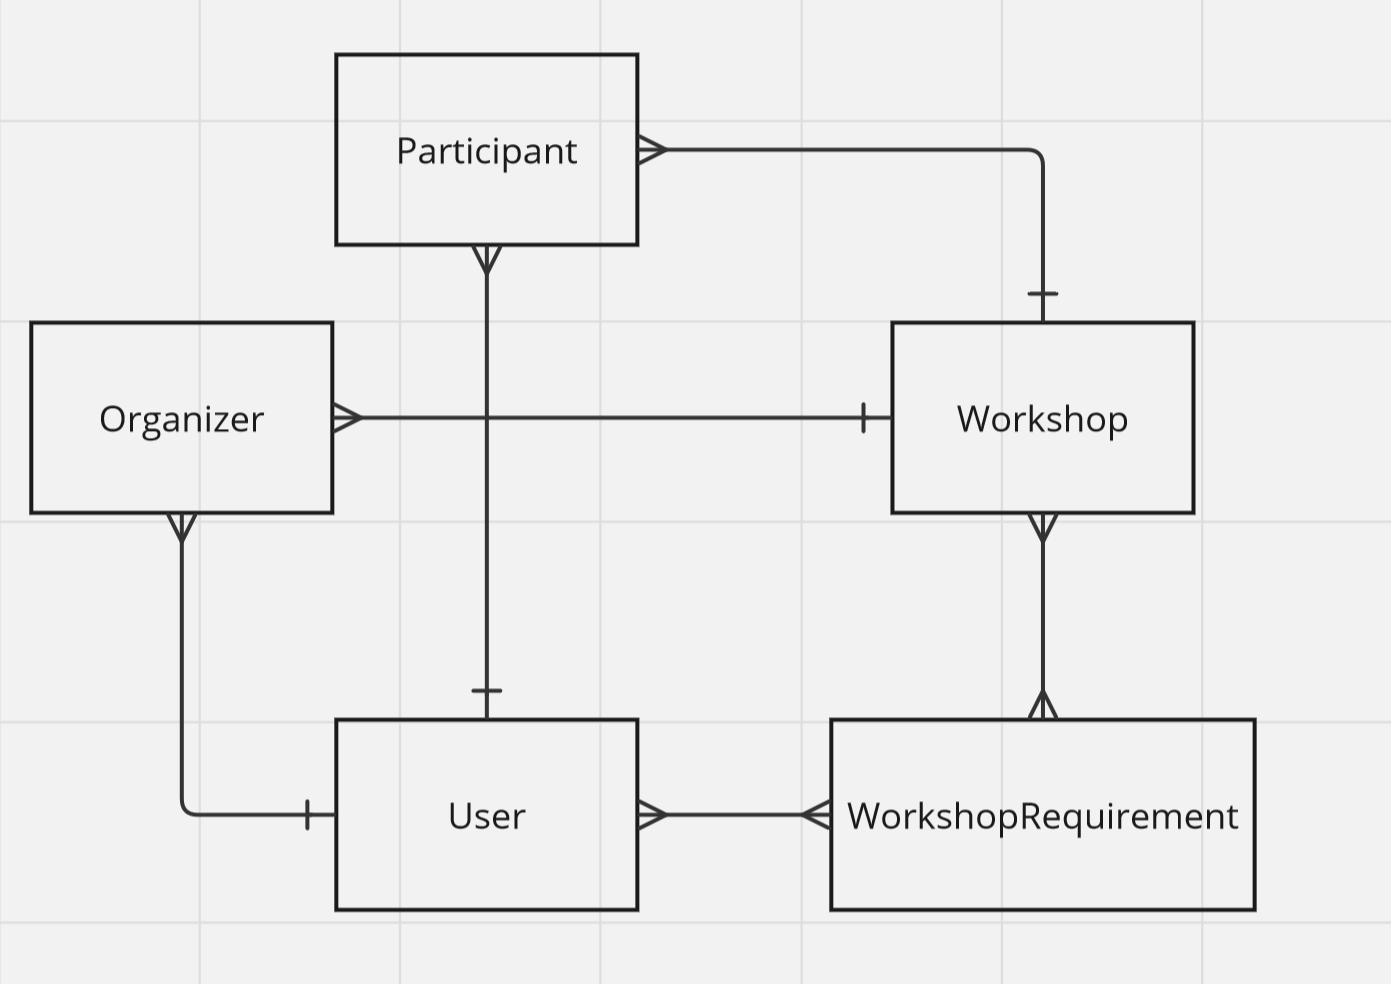
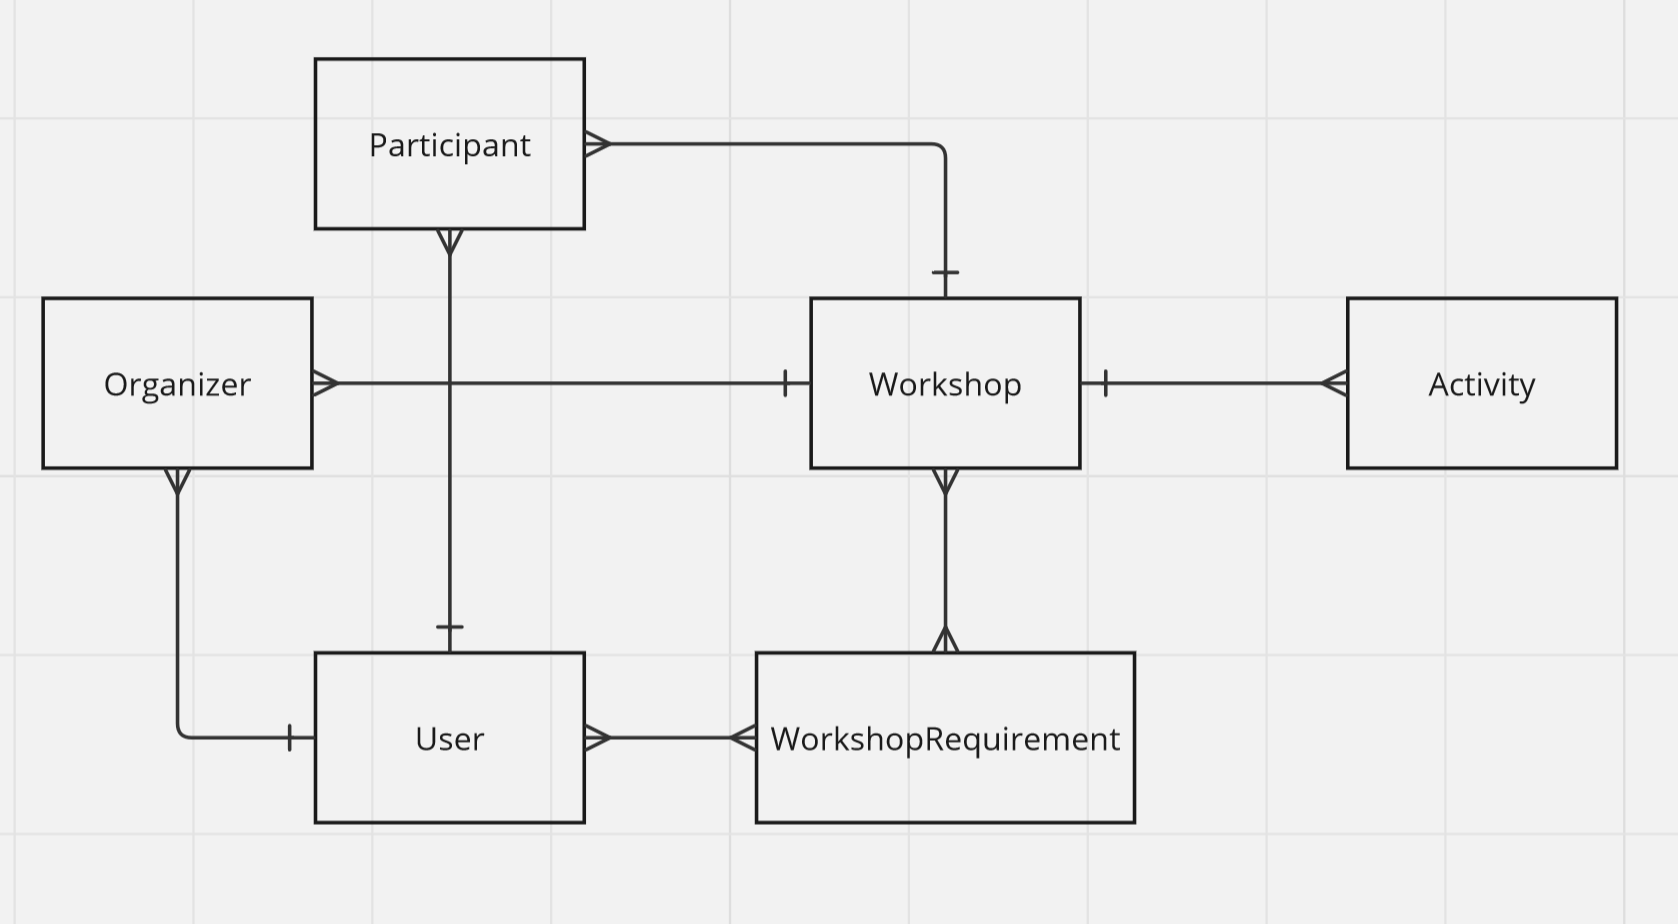
add REST controllers

Changed region(s): [[0.0, 0.0303, 0.9885, 0.9394]]

diff --git a/backend/src/main/java/io/workshop/web/WorkshopController.java b/backend/src/main/java/io/workshop/web/WorkshopController.java
@@ -1,0 +1,46 @@
+package io.workshop.web;
+
+import io.workshop.model.Participant;
+import io.workshop.model.Workshop;
+import io.workshop.model.id.ParticipantId;
+import io.workshop.repository.ParticipantRepository;
+import io.workshop.repository.WorkshopRepository;
+import jakarta.transaction.Transactional;
+import lombok.AllArgsConstructor;
+import org.springframework.http.HttpStatus;
+import org.springframework.http.ResponseEntity;
+import org.springframework.web.bind.annotation.GetMapping;
+import org.springframework.web.bind.annotation.PathVariable;
+import org.springframework.web.bind.annotation.RequestMapping;
+import org.springframework.web.bind.annotation.RestController;
+
+import java.util.List;
+import java.util.Optional;
+
+import static java.util.Optional.ofNullable;
+
+@AllArgsConstructor
+@RestController
+@RequestMapping("/workshops")
+public class WorkshopController {
+
+    private final WorkshopRepository workshopRepository;
+    private final ParticipantRepository participantRepository;
+
+    @GetMapping
+    public ResponseEntity<List<Workshop>> listWorkshops() {
+        return ResponseEntity.ok(workshopRepository.findAll());
+    }
+
+    @GetMapping("/{id}")
+    public ResponseEntity<Workshop> getWorkshop(@PathVariable("id") final Integer workshopId) {
+        return workshopRepository.findById(workshopId)
+                .map(ResponseEntity::ok)
+                .orElse(ResponseEntity.notFound().build());
+    }
+
+    @GetMapping("/{id}/participants")
+    public ResponseEntity<List<Participant>> getParticipants(@PathVariable("id") final Integer workshopId) {
+        return ResponseEntity.ok(participantRepository.findByWorkshopId(workshopId));
+    }
+}

diff --git a/backend/src/main/java/io/workshop/web/UserController.java b/backend/src/main/java/io/workshop/web/UserController.java
@@ -1,0 +1,32 @@
+package io.workshop.web;
+
+import io.workshop.model.User;
+import io.workshop.repository.UserRepository;
+import lombok.AllArgsConstructor;
+import org.springframework.http.ResponseEntity;
+import org.springframework.web.bind.annotation.GetMapping;
+import org.springframework.web.bind.annotation.PathVariable;
+import org.springframework.web.bind.annotation.RequestMapping;
+import org.springframework.web.bind.annotation.RestController;
+
+import java.util.List;
+
+@AllArgsConstructor
+@RestController
+@RequestMapping("/users")
+public class UserController {
+
+    private final UserRepository userRepository;
+
+    @GetMapping
+    public ResponseEntity<List<User>> listUsers() {
+        return ResponseEntity.ok(userRepository.findAll());
+    }
+
+    @GetMapping("/{id}")
+    public ResponseEntity<User> getUser(@PathVariable("id") final Integer userId) {
+        return userRepository.findById(userId)
+                .map(ResponseEntity::ok)
+                .orElse(ResponseEntity.notFound().build());
+    }
+}

diff --git a/backend/src/main/java/io/workshop/repository/ParticipantRepository.java b/backend/src/main/java/io/workshop/repository/ParticipantRepository.java
@@ -1,0 +1,18 @@
+package io.workshop.repository;
+
+import io.workshop.model.Participant;
+import io.workshop.model.Workshop;
+import org.springframework.data.jpa.repository.JpaRepository;
+import org.springframework.data.jpa.repository.Query;
+import org.springframework.data.repository.ListCrudRepository;
+import org.springframework.data.repository.PagingAndSortingRepository;
+import org.springframework.stereotype.Repository;
+
+import java.util.List;
+import java.util.Optional;
+
+@Repository
+public interface ParticipantRepository extends JpaRepository<Participant, Integer> {
+
+    List<Participant> findByWorkshopId(Integer workshopId);
+}

diff --git a/backend/src/main/java/io/workshop/model/Participant.java b/backend/src/main/java/io/workshop/model/Participant.java
@@ -1,15 +1,22 @@
 package io.workshop.model;
 
+import com.fasterxml.jackson.annotation.JsonIgnore;
 import io.workshop.model.id.ParticipantId;
 import jakarta.persistence.*;
-import lombok.Data;
+import lombok.*;
 
 import java.util.Date;
 
 @Data
+@NoArgsConstructor
+@AllArgsConstructor
+@EqualsAndHashCode
+@Builder
 @Entity
 @Table(name = "participant")
 public class Participant {
+
+    @JsonIgnore
     @EmbeddedId
     private ParticipantId id;
 

diff --git a/backend/src/main/java/io/workshop/model/Organizer.java b/backend/src/main/java/io/workshop/model/Organizer.java
@@ -2,12 +2,18 @@ package io.workshop.model;
 
 import io.workshop.model.id.OrganizerId;
 import jakarta.persistence.*;
+import lombok.AllArgsConstructor;
 import lombok.Data;
+import lombok.EqualsAndHashCode;
+import lombok.NoArgsConstructor;
 
 import java.util.Date;
 
 @Data
 @Entity
+@NoArgsConstructor
+@AllArgsConstructor
+@EqualsAndHashCode
 @Table(name = "organizer")
 public class Organizer {
     @EmbeddedId

diff --git a/backend/src/main/java/io/workshop/model/id/OrganizerId.java b/backend/src/main/java/io/workshop/model/id/OrganizerId.java
@@ -1,10 +1,15 @@
 package io.workshop.model.id;
 
 import jakarta.persistence.Embeddable;
+import lombok.AllArgsConstructor;
+import lombok.Builder;
 import lombok.EqualsAndHashCode;
+import lombok.NoArgsConstructor;
 
 import java.io.Serializable;
 
+@AllArgsConstructor
+@NoArgsConstructor
 @EqualsAndHashCode
 @Embeddable
 public class OrganizerId implements Serializable {

diff --git a/backend/src/main/java/io/workshop/model/Requirement.java b/backend/src/main/java/io/workshop/model/Requirement.java
@@ -1,12 +1,18 @@
 package io.workshop.model;
 
 import jakarta.persistence.*;
+import lombok.AllArgsConstructor;
 import lombok.Data;
+import lombok.EqualsAndHashCode;
+import lombok.NoArgsConstructor;
 
 import java.util.Date;
 
 @Data
 @Entity
+@NoArgsConstructor
+@AllArgsConstructor
+@EqualsAndHashCode
 @Table(name = "requirement")
 public class Requirement {
     @Id

diff --git a/backend/src/main/java/io/workshop/model/Workshop.java b/backend/src/main/java/io/workshop/model/Workshop.java
@@ -1,12 +1,18 @@
 package io.workshop.model;
 
 import jakarta.persistence.*;
+import lombok.AllArgsConstructor;
 import lombok.Data;
+import lombok.EqualsAndHashCode;
+import lombok.NoArgsConstructor;
 
 import java.util.Date;
 
 @Data
 @Entity
+@NoArgsConstructor
+@AllArgsConstructor
+@EqualsAndHashCode
 @Table(name = "workshop")
 public class Workshop {
 

diff --git a/backend/src/main/java/io/workshop/model/User.java b/backend/src/main/java/io/workshop/model/User.java
@@ -1,12 +1,18 @@
 package io.workshop.model;
 
 import jakarta.persistence.*;
+import lombok.AllArgsConstructor;
 import lombok.Data;
+import lombok.EqualsAndHashCode;
+import lombok.NoArgsConstructor;
 
 import java.util.Date;
 
 @Data
 @Entity
+@NoArgsConstructor
+@AllArgsConstructor
+@EqualsAndHashCode
 @Table(name = "user")
 public class User {
 

diff --git a/backend/src/main/java/io/workshop/model/id/ParticipantId.java b/backend/src/main/java/io/workshop/model/id/ParticipantId.java
@@ -1,11 +1,12 @@
 package io.workshop.model.id;
 
 import jakarta.persistence.Embeddable;
-import lombok.Data;
-import lombok.EqualsAndHashCode;
+import lombok.*;
 
 import java.io.Serializable;
 
+@AllArgsConstructor
+@NoArgsConstructor
 @EqualsAndHashCode
 @Data
 @Embeddable

diff --git a/docs/README.md b/docs/README.md
@@ -7,6 +7,7 @@
 - **Participant** has always _one_ user and each user can relate to _many_ participants. In addition, each participant can only ever participate in a single workshop at a time, but each workshop can have multiple participants. Whenever a user signs up for a new workshop, this would result in a new participant model. This model can be used to also track the status of the participation.
 - **Organizer** has always _one_ user associated with it and each user can be an organizer of _many_ workshops. The organizer model tracks the status of the organization. For example, in case one of the organizers gets sick, another organizer can jump in and this can be reflected by its status accordingly.
 - **WorkshopRequirement** tracks a specific need or prerequisite for a given workshop. A workshop does not have to specify requirements but in case they do, users will be made aware of it before becoming a participant in said workshop. This also allows for better filtering of workshops that match the users requirements. Note: this model simplifies the functionality of requirements but in future, requirements could be added to the `Organizer` too, so each organizer could bring their own set of requirements, especially useful when organizing larger workshops with multiple organizers.
+- **Activity** is an activity that is done as part of a workshop and each workshop defines a list of activities.
 
 ## High Level Architecture
 
